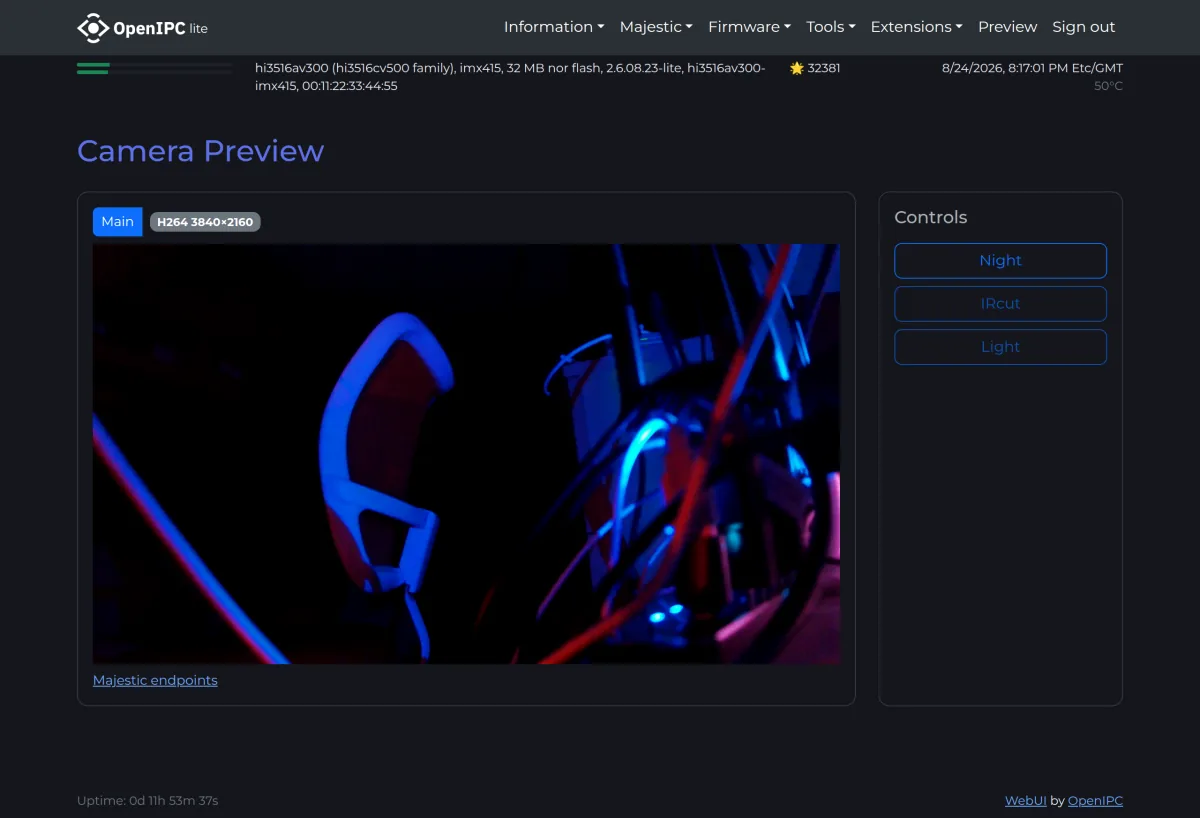
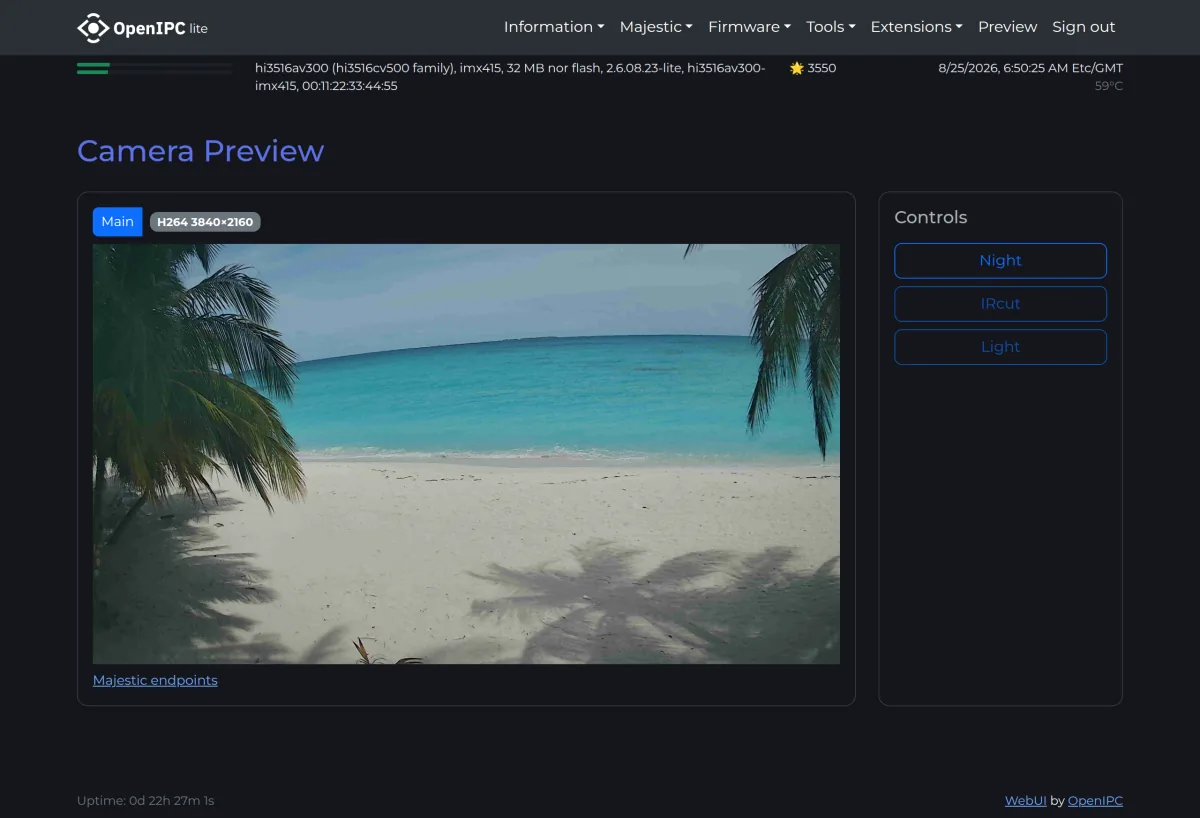
Point the camera at a beach for the two shots that show live video
The lab hi3516av300 looks at an unlit bench of cables, so the Camera
Preview and Majestic Settings tiles photographed as a dark blue-and-red
smear. It is a truthful picture of our lab and a useless one for a
visitor: the player is the part of the WebUI those two pages exist to
show, and at tile size it read as a broken image rather than a video.

@usa- posted three snapshots from their own camera on
OpenIPC/majestic#300 while reporting the SSC337DE saturation bug, and
gave permission to reuse them here:
https://github.com/OpenIPC/majestic/issues/300#issuecomment-5405996706

The scene is laid over the <video> element in the DOM immediately before
the shutter, the same mechanism that already rewrites the lab's address
and MAC out of the text. It is matched to the element's content box, so
.mj-live-video still draws its own 1px border and corner radius around
the picture, and object-fit:cover crops it to the player's aspect the
way real video fills it. Nothing else about either page changed; the
other ten screenshots are untouched.

Because the picture is somebody else's and a reader cannot tell a
substituted scene from a real one, the page now says whose it is and
links the permission, and a test asserts both -- scoped to the article
and to a URL that appears nowhere else on the site, so neither half can
be satisfied by the layout. Verified by mutation: dropping the credit
line fails it, and so does dropping the handle from the copy.
[…]

diff --git a/test/controllers/web_interface_test.rb b/test/controllers/web_interface_test.rb
@@ -69,4 +69,16 @@ class WebInterfaceTest < ActionDispatch::IntegrationTest
       end
     end
   end
+
+  test 'the borrowed preview scene is credited on the page' do
+    # Two of the twelve shots do not show what the lab camera is pointed at:
+    # the beach in the player belongs to somebody else, given to us for this.
+    # A reader has no way to tell a substituted scene from a real one, so the
+    # page has to say whose it is and link the permission. Scoped to the
+    # article, and to a URL that appears nowhere else, so neither half of this
+    # can be satisfied by the layout.
+    assert_select 'article p a[href=?]',
+                  'https://github.com/OpenIPC/majestic/issues/300#issuecomment-5405996706'
+    assert_select 'article', /@usa-/
+  end
 end
